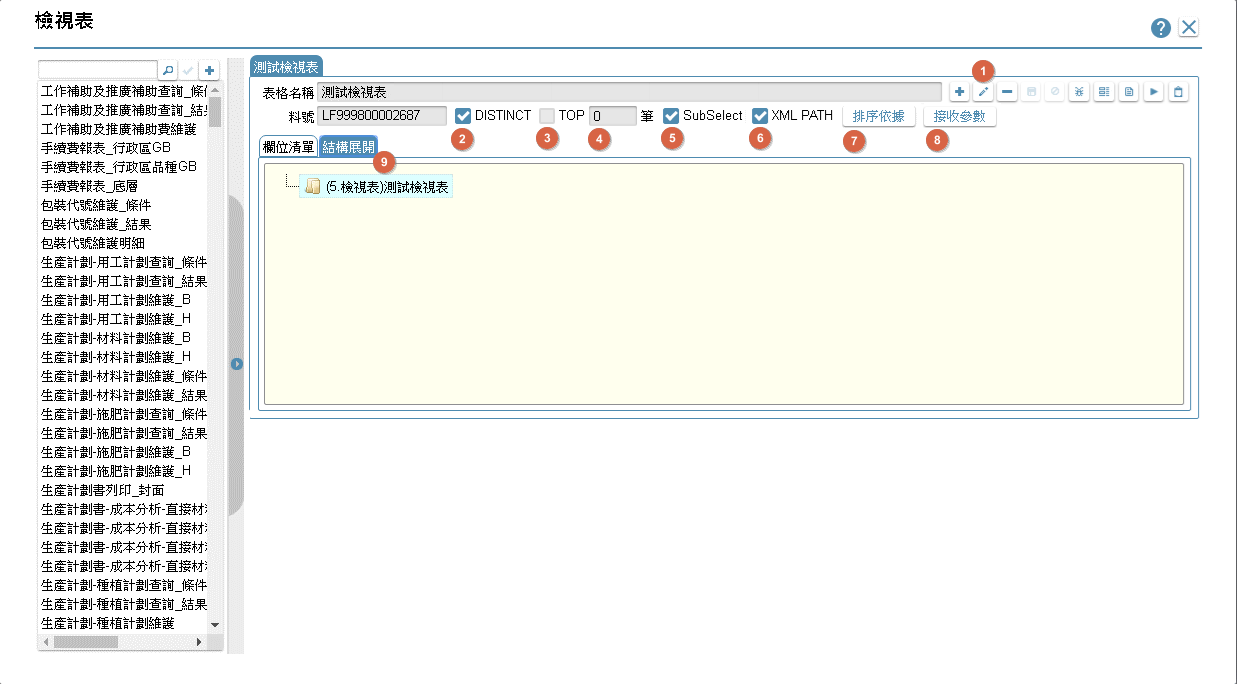
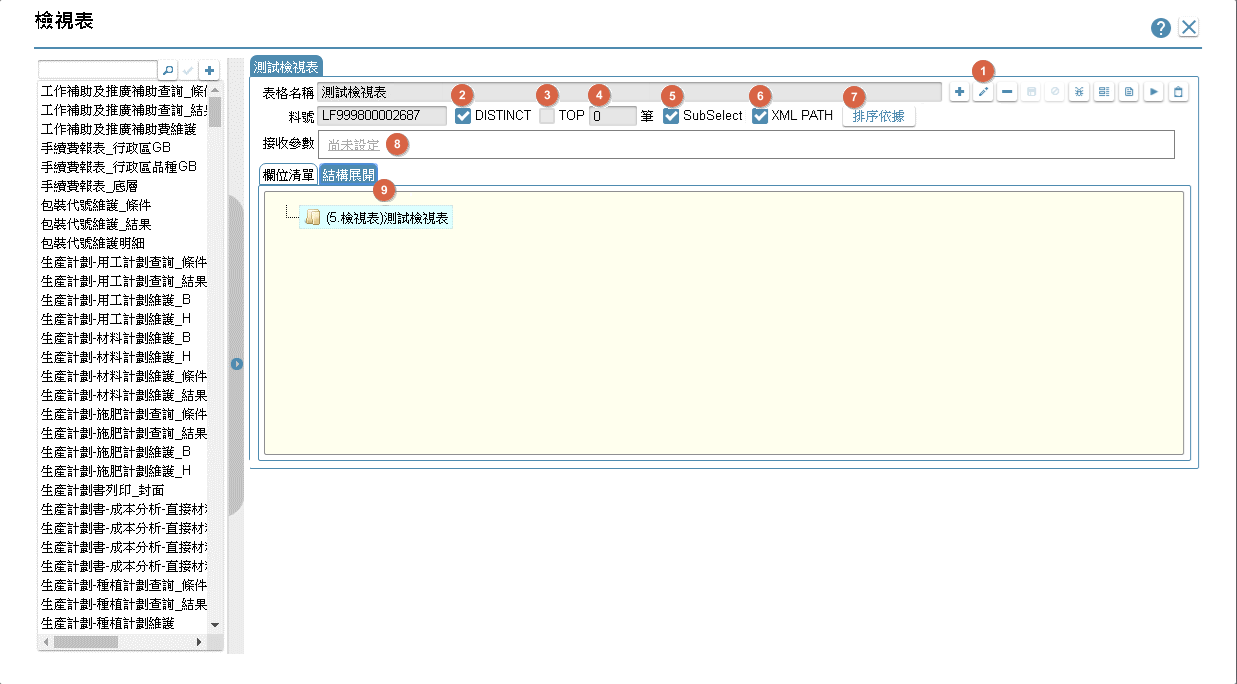
IDE 8.10.0 檢視表SA文件

diff --git a/8.10.0/IDE/Specification/Logical/README.md b/8.10.0/IDE/Specification/Logical/README.md
@@ -1,1 +1,292 @@
-# IDE規格文件 概述
+## <div id="layout">版面相關</div>
+
+* 版面
+  * 檢視表主頁
+
+    ![ini_index]
+
+  * 欄位清單
+
+    ![ini_logcols]
+
+## <div id="form-action">動作說明</div>
+
+* 說明內容
+  * [版面資訊通則](../RulesOther/README.md#ruleother1)
+  * [單據異動資料按鍵操作通則](../RulesButton/README#rulebutton2)
+  
+* 作業流程
+  * 操作總覽
+    * ![flow_overview]
+
+## <div id="object-desc">欄位說明</div>
+* <p id="fieldbreak1" style="color:blue;font-weight:bold">檢視表主頁</p>
+
+    ![fieldbreak_m1]
+
+    * <t>(1)查詢</t>
+      * 用途說明
+      * 規格說明
+      * 作業流程
+    * <t>(2)帶回</t>
+      * 用途說明
+      * 規格說明
+      * 作業流程
+    * <t>(3)新增</t>
+      * 用途說明
+      * 規格說明
+      * 作業流程
+    * <t>(4)檢視表清單</t>
+      * 用途說明
+      * 規格說明
+      * 作業流程
+    * <t>(5)檢視表頁籤</t>
+      * 用途說明
+      * 規格說明
+      * 作業流程
+    * <t>(6)修改</t>
+      * 用途說明
+      * 規格說明
+      * 作業流程
+    * <t>(7)存回</t>
+      * 用途說明
+      * 規格說明
+      * 作業流程
+    * <t>(8)取消</t>
+      * 用途說明
+      * 規格說明
+      * 作業流程
+    * <t>(9)刪除</t>
+      * 用途說明
+      * 規格說明
+      * 作業流程
+    * <t>(10)檢錯</t>
+      * 用途說明
+      * 規格說明
+      * 作業流程
+    * <t>(11)表格欄位清單</t>
+      * 用途說明
+      * 規格說明
+      * 作業流程
+    * <t>(12)描述</t>
+      * 用途說明
+      * 規格說明
+      * 作業流程
+    * <t>(13)打樣</t>
+      * 用途說明
+      * 規格說明
+      * 作業流程
+    * <t>(14)打樣狀態查詢</t>
+      * 用途說明
+      * 規格說明
+      * 作業流程
+* <p id="fieldbreak2" style="color:blue;font-weight:bold">結構展開</p>
+
+    ![fieldbreak_m2]
+
+    * <t>(1)結構展開清單</t>
+      * 用途說明
+      * 規格說明
+      * 作業流程
+    * <t>(2)主檢視表</t>
+      * 用途說明
+      * 規格說明
+      * 作業流程
+    * <t>(3)參考來源表格</t>
+      * 用途說明
+      * 規格說明
+      * 作業流程
+    * <t>(4)關聯條件區塊</t>
+      * 用途說明
+      * 規格說明
+      * 作業流程
+    * <t>(5)資料過濾條件區塊</t>
+      * 用途說明
+      * 規格說明
+      * 作業流程
+    * <t>(6)過濾式</t>
+      * 用途說明
+      * 規格說明
+      * 作業流程
+    * <t>(7)刪除過濾式</t>
+      * 用途說明
+      * 規格說明
+      * 作業流程
+
+* <p id="fieldbreak3" style="color:blue;font-weight:bold">關聯條件</p>
+
+    ![fieldbreak_m3]
+
+    * <t>(1)關聯條件</t>
+      * 用途說明
+      * 規格說明
+      * 作業流程
+    * <t>(2)類別</t>
+      * 用途說明
+      * 規格說明
+      * 作業流程
+    * <t>(3)暫存資料表</t>
+      * 用途說明
+      * 規格說明
+      * 作業流程
+    * <t>(4)來源表格</t>
+      * 用途說明
+      * 規格說明
+      * 作業流程
+    * <t>(5)傳遞參數</t>
+      * 用途說明
+      * 規格說明
+      * 作業流程
+    * <t>(6)別名</t>
+      * 用途說明
+      * 規格說明
+      * 作業流程
+    * <t>(7)關聯條件區塊</t>
+      * 用途說明
+      * 規格說明
+      * 作業流程
+    * <t>(8)連結來源表格</t>
+      * 用途說明
+      * 規格說明
+      * 作業流程
+    * <t>(9)連結欄位</t>
+      * 用途說明
+      * 規格說明
+      * 作業流程
+    * <t>(10)條件</t>
+      * 用途說明
+      * 規格說明
+      * 作業流程
+    * <t>(11)連結類別</t>
+      * 用途說明
+      * 規格說明
+      * 作業流程
+    * <t>(12)連結內容</t>
+      * 用途說明
+      * 規格說明
+      * 作業流程
+    * <t>(13)自訂連結</t>
+      * 用途說明
+      * 規格說明
+      * 作業流程
+    * <t>(14)新增</t>
+      * 用途說明
+      * 規格說明
+      * 作業流程
+    * <t>(15)刪除</t>
+      * 用途說明
+      * 規格說明
+      * 作業流程
+    * <t>(16)儲存</t>
+      * 用途說明
+      * 規格說明
+      * 作業流程
+      
+* <p id="fieldbreak4" style="color:blue;font-weight:bold">欄位結構</p>
+    
+    ![fieldbreak_m4]  
+
+    * <t>(1)欄位清單區塊</t>
+      * 用途說明
+      * 規格說明
+      * 作業流程
+    * <t>(2)欄位名</t>
+      * 用途說明
+      * 規格說明
+      * 作業流程
+    * <t>(3)欄位名(DB)</t>
+      * 用途說明
+      * 規格說明
+      * 作業流程
+    * <t>(4)資料型態</t>
+      * 用途說明
+      * 規格說明
+      * 作業流程
+    * <t>(5)長度</t>
+      * 用途說明
+      * 規格說明
+      * 作業流程
+    * <t>(6)允許空值</t>
+      * 用途說明
+      * 規格說明
+      * 作業流程
+    * <t>(7)鍵值否</t>
+      * 用途說明
+      * 規格說明
+      * 作業流程
+    * <t>(8)說明</t>
+      * 用途說明
+      * 規格說明
+      * 作業流程
+
+* <p id="fieldbreak5" style="color:blue;font-weight:bold">欄位清單</p>
+    
+    ![fieldbreak_m5]  
+
+    * <t>(1)</t>
+      * 用途說明
+      * 規格說明
+      * 作業流程
+    * <t>(2)</t>
+      * 用途說明
+      * 規格說明
+      * 作業流程
+
+* <p id="fieldbreak6" style="color:blue;font-weight:bold">排序依據</p>
+    
+    ![fieldbreak_m6]  
+
+    * <t>(1)</t>
+      * 用途說明
+      * 規格說明
+      * 作業流程
+    * <t>(2)</t>
+      * 用途說明
+      * 規格說明
+      * 作業流程
+
+* <p id="fieldbreak7" style="color:blue;font-weight:bold">接收參數</p>
+    
+    ![fieldbreak_m7]  
+
+    * <t>(1)</t>
+      * 用途說明
+      * 規格說明
+      * 作業流程
+    * <t>(2)</t>
+      * 用途說明
+      * 規格說明
+      * 作業流程
+
+* <p id="fieldbreak8" style="color:blue;font-weight:bold">自動彙總</p>
+
+    ![fieldbreak_m8]
+
+    * <t>(1)</t>
+      * 用途說明
+      * 規格說明
+      * 作業流程
+    * <t>(2)</t>
+      * 用途說明
+      * 規格說明
+      * 作業流程
+
+## <div id="save-action">儲存檢控</div>
+* 檢控分類
+    * 內容說明
+
+<!-- 圖示_介面 -->
+[ini_index]:attachment/ini_index.png "[介面]檢視表主頁"
+[ini_logcols]:attachment/ini_logcols.png "[介面]欄位清單"
+[fieldbreak_m1]:attachment/mark_ini_index.png "[欄位說明]檢視表主頁"
+[fieldbreak_m2]:attachment/mark_ini_logjoinview.png "[欄位說明]結構展開"
+[fieldbreak_m3]:attachment/mark_ini_logjoin.png "[欄位說明]關聯條件"
+[fieldbreak_m4]:attachment/mark_ini_logjoin_phydata.png "[欄位說明]結構欄位"
+[fieldbreak_m5]:attachment/mark_ini_logcols.png "[欄位說明]欄位清單"
+[fieldbreak_m6]:attachment/mark_ini_orderby.png "[欄位說明]排序依據"
+[fieldbreak_m7]:attachment/mark_ini_parameter.png "[欄位說明]接收參數"
+[fieldbreak_m8]:attachment/mark_ini_autogroupby.png "[欄位說明]自動彙總"
+<!-- 圖示_作業流程 -->
+[flow_overview]:attachment/Diagram_Logical_overview.png "[作業流程]檢視表操作總覽"
+
+<!-- 超連結 -->

diff --git a/8.10.0/IDE/Specification/Logical/_sidebar.md b/8.10.0/IDE/Specification/Logical/_sidebar.md
@@ -1,1 +1,15 @@
+# 檢視表
 * [上一頁](../README.md)
+* [版面相關](README#layout)
+* [動作說明](README#form-action)
+* [欄位說明](README#object-desc)
+  * [首頁](README#fieldbreak1)
+  * [結構展開](README#fieldbreak2)
+    * [關聯條件](README#fieldbreak3)
+    * [欄位結構](README#fieldbreak4)
+  * [欄位清單](README#fieldbreak5)
+  * [排序依據](README#fieldbreak6)
+  * [接收參數](README#fieldbreak7)
+  * [自動彙總](README#fieldbreak8)
+* [儲存檢控](README#save-action)
+* [history](history)

diff --git a/8.10.0/IDE/Specification/Logical/history.md b/8.10.0/IDE/Specification/Logical/history.md
@@ -1,0 +1,14 @@
+變更記錄<!--版本變更記錄(最高階標題)-->
+  ===
+  | 版本 |
+  | :---: |
+  | [8.10.0](#v8_10_0) |
+
+***
+
+### <a id='v8_10_0'></a>8.10.0
+* Modify Lucky 2020/11/18 : 檢視表優化, 調整檢視表建立操作UI([Trac#8212])
+* Append Lucky 2020/11/18 : `特定處理` 擴充 平均值(Avg)
+
+<!--超連結引用ps.畫面上看不到-->
+[Trac#8212]:http://trac.uneec.com/trac/neco/ticket/8212 "#8212"

diff --git a/8.10.0/UPDATE/ITEM_4/IDE/logical/README.md b/8.10.0/UPDATE/ITEM_4/IDE/logical/README.md
@@ -60,7 +60,9 @@
   * `(8)接收參數`
     * 用途說明 
     * 規格說明: 
-      * 開啟[接收參數](#parameter)
+      * 超連結開啟[接收參數](#parameter)
+      * 未設定時顯示: 尚未設定
+      * 已設定時顯示: (參數型態)參數名稱1、(參數型態)參數名稱2...
   * `(9)結構展開`
     * 用途說明
     * 規格說明: 
